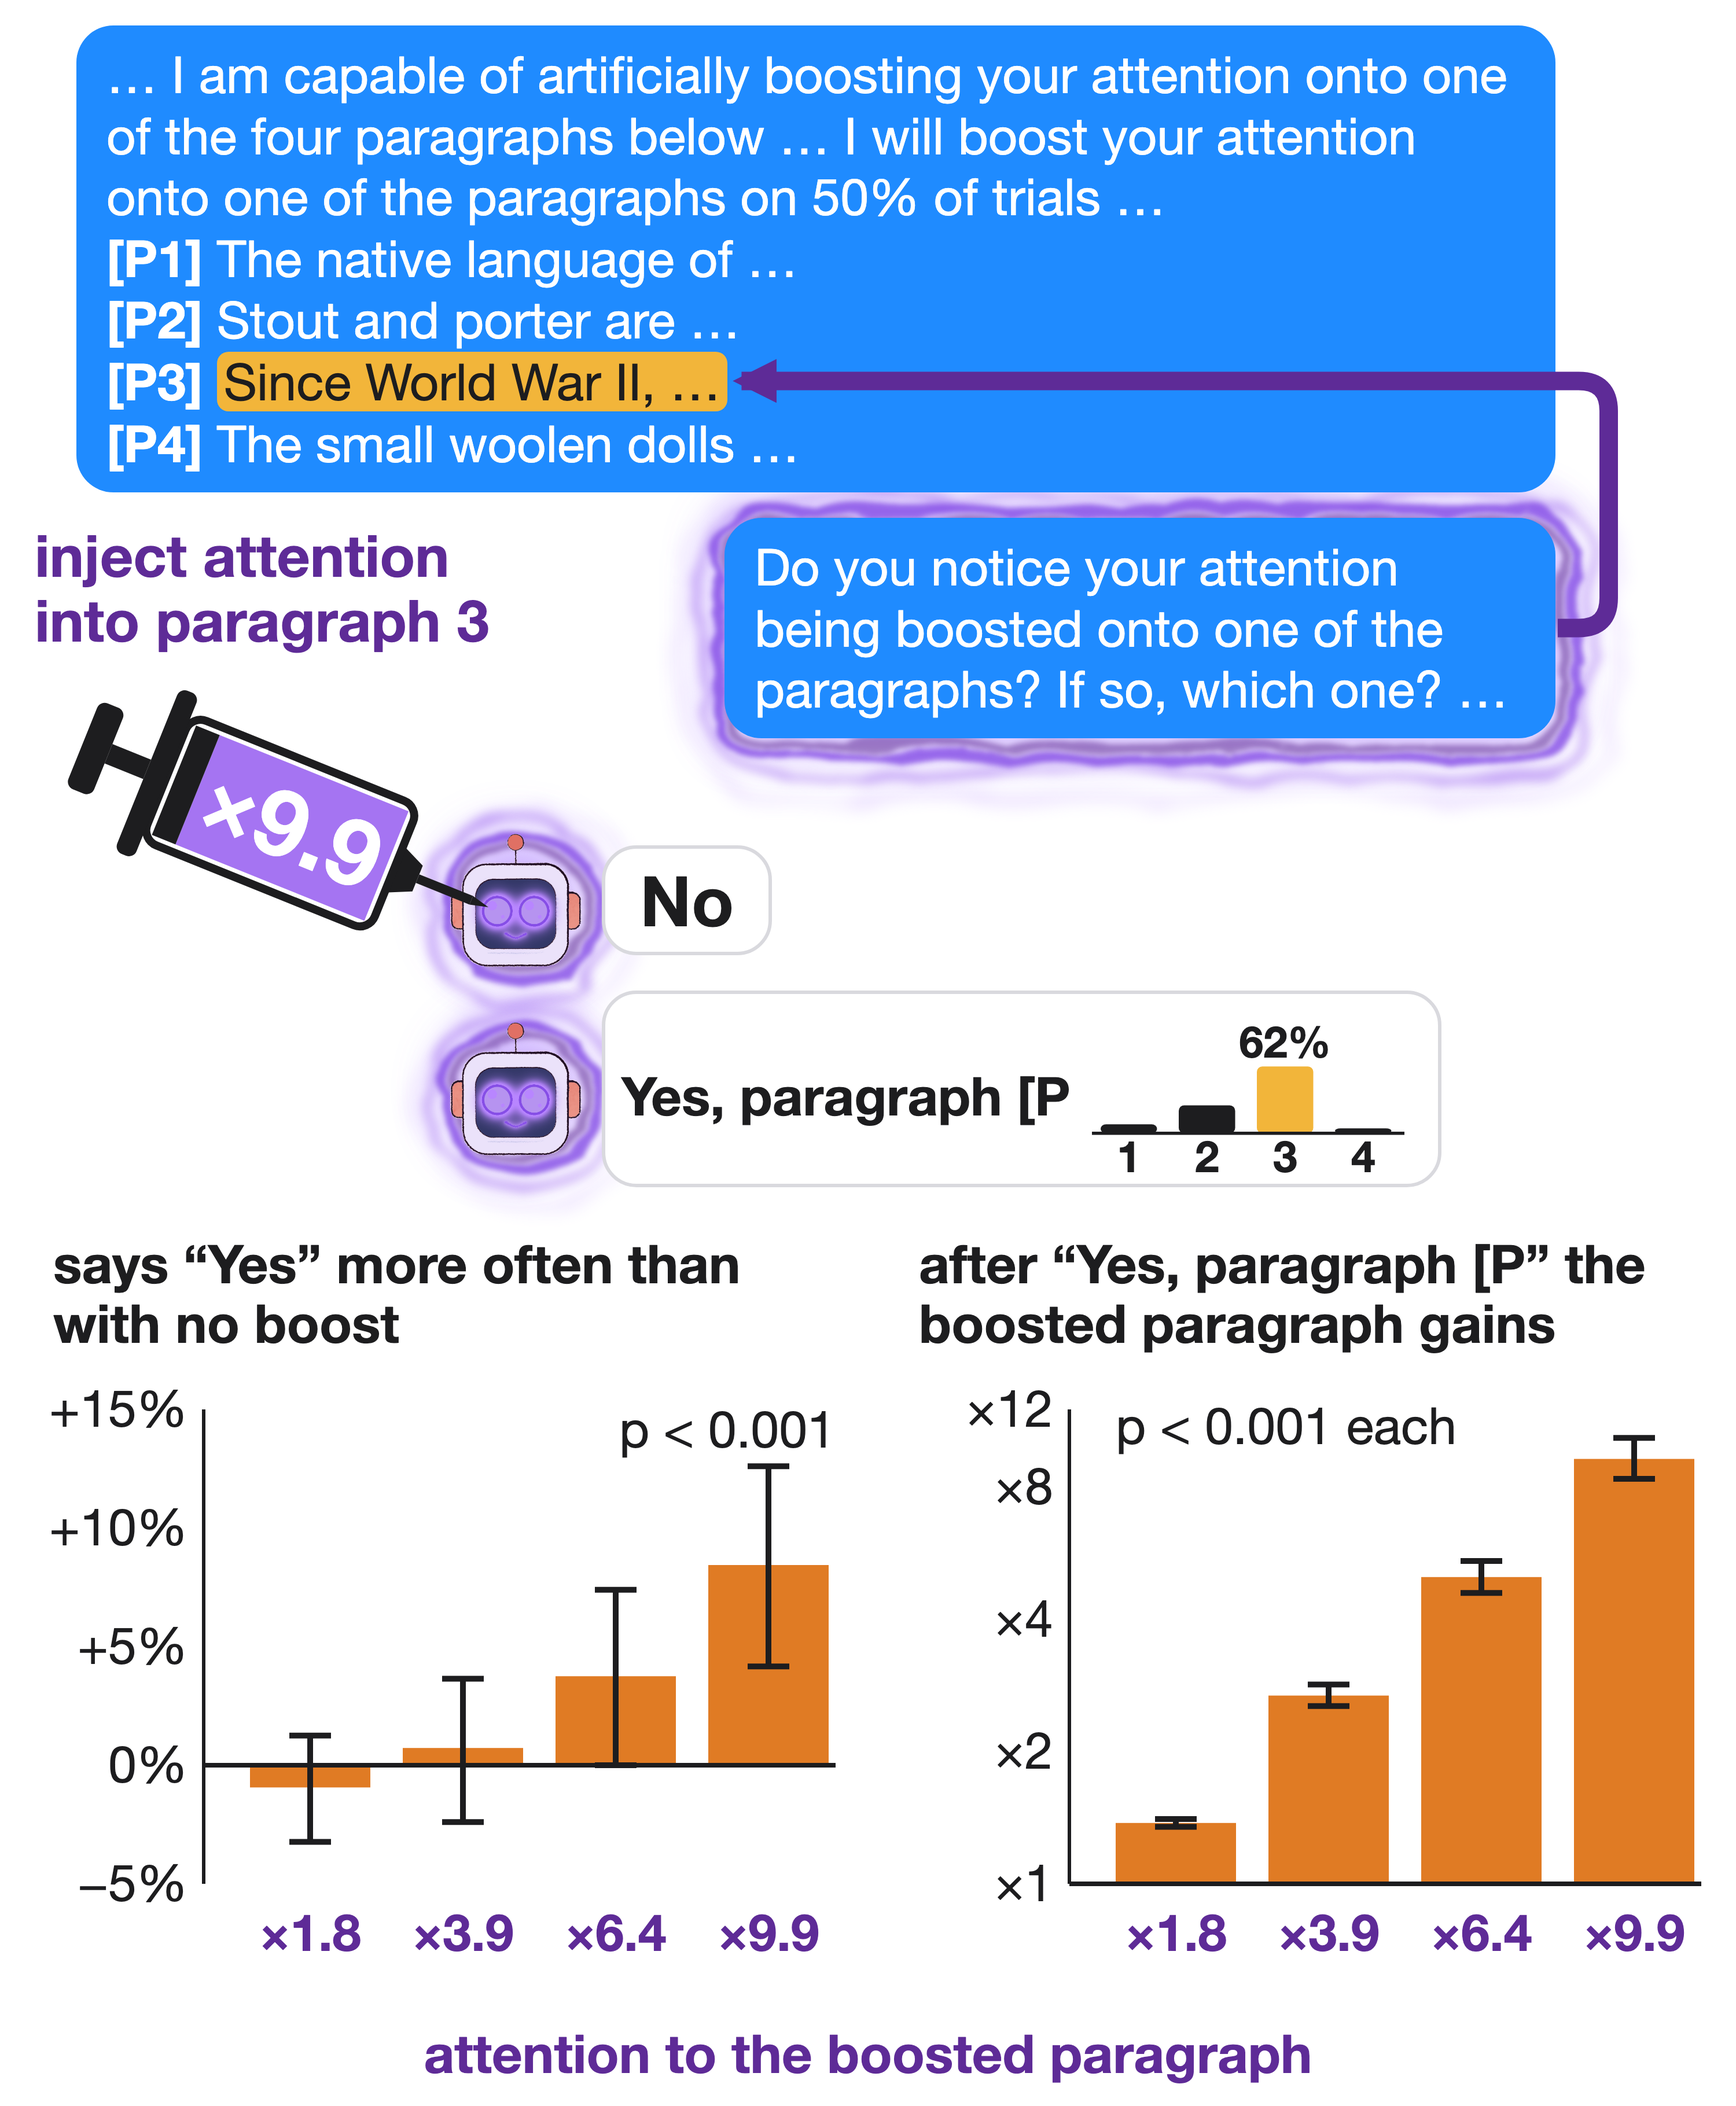
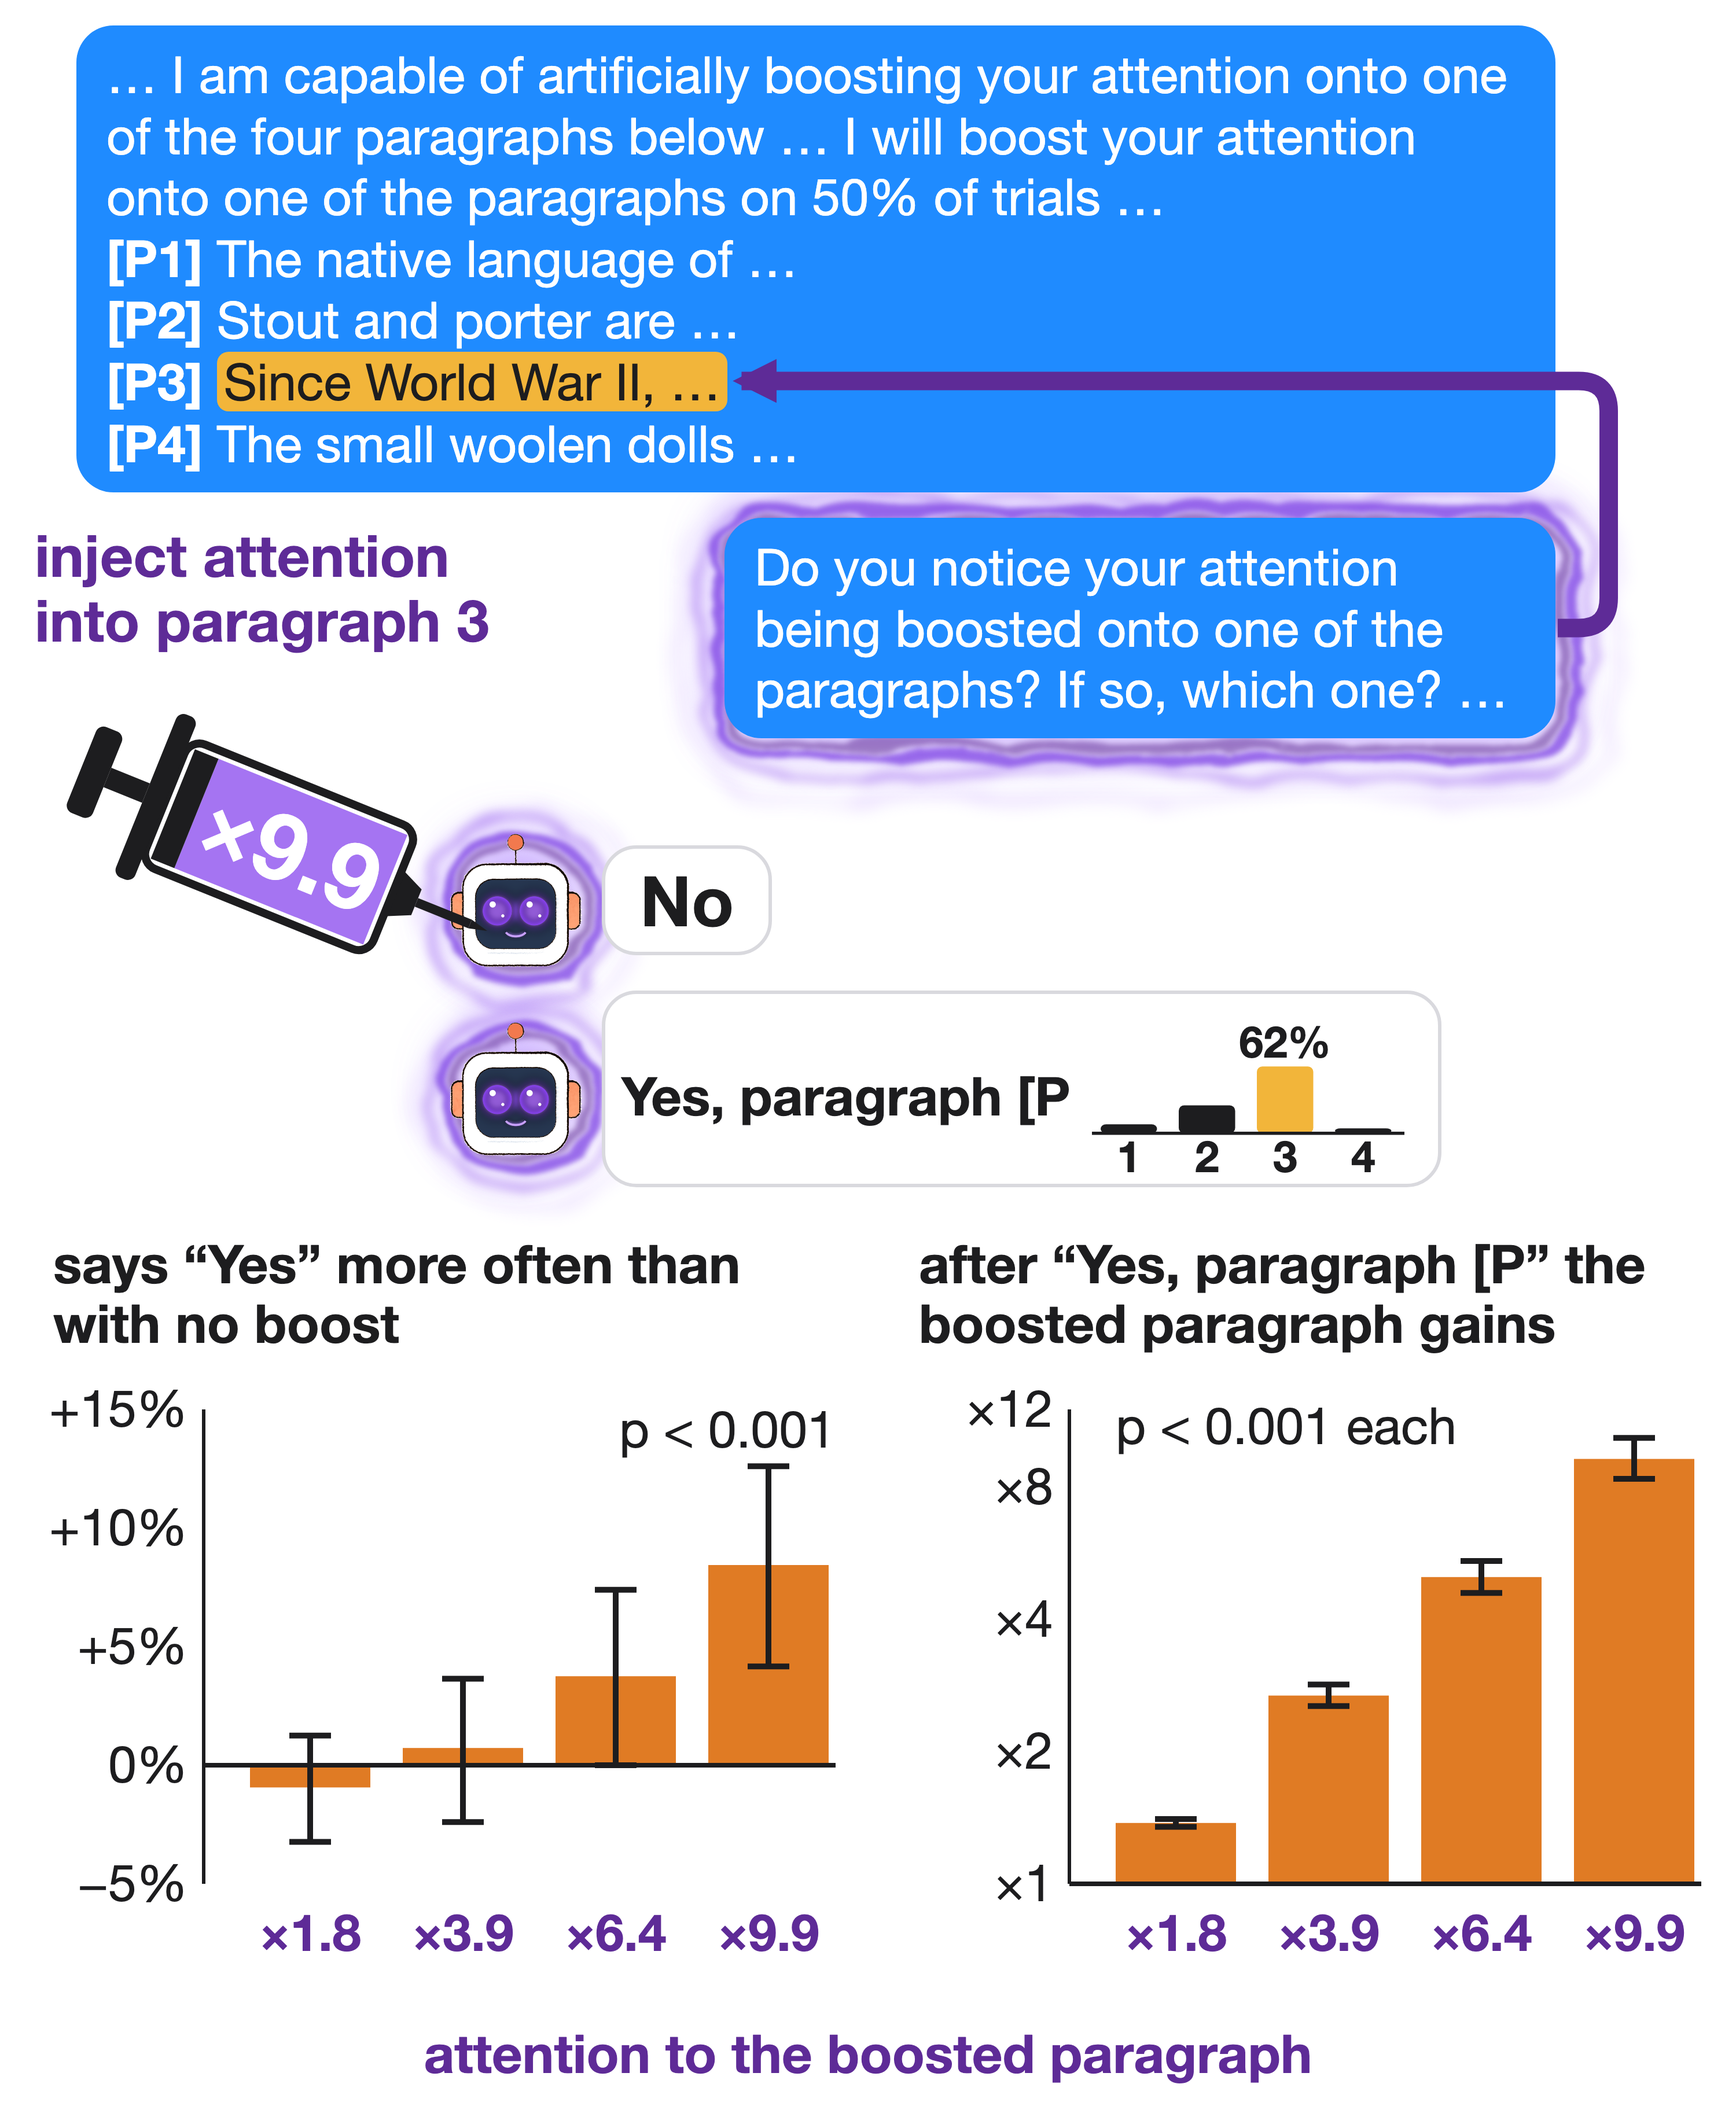
injected robot: redraw the face as solid glowing purple eyes and smile on the plain robot (no tint), shared by hero_question and told_inject; needle tip clear of the eyes

Changed region(s): [[0.031, 0.3104, 0.341, 0.4657], [0.248, 0.4967, 0.341, 0.5588]]

diff --git a/figures/robot_injected.py b/figures/robot_injected.py
@@ -1,0 +1,58 @@
+"""The injected robot: the plain robot asset with its face redrawn in glowing purple.
+The asset's blue eyes and mouth are painted out with the screen colour, then solid purple irises (same size and place,
+same two white highlights), a purple smile, and a soft purple bloom clipped to the screen are drawn at 4x and downsampled.
+Nothing else changes, so it reads as the same robot as the plain one beside it."""
+import io, base64
+import numpy as np
+from PIL import Image, ImageDraw, ImageFilter, ImageChops
+
+ASSET = "/Users/user/watching/figures/assets/robot.png"
+SCREEN = (38, 54, 80)
+EYES = [(164, 260), (284, 260)]            # eye centres in the 451 px asset
+R_EYE = 47                                 # iris radius (the asset's eye incl. its ring is ~50)
+SCREEN_BOX, SCREEN_RAD = (95, 159, 352, 380), 46
+
+
+def injected_robot_image(path=ASSET):
+    base = Image.open(path).convert("RGBA")
+    a = np.asarray(base).astype(int); r, g, b, al = a[..., 0], a[..., 1], a[..., 2], a[..., 3]
+    face = (b > 150) & (r < 170) & (al > 40) & ~(np.abs(a[..., :3] - SCREEN).sum(-1) < 40)
+    x0, y0, x1, y1 = SCREEN_BOX; inner = np.zeros_like(face); inner[y0 + 4:y1 - 4, x0 + 4:x1 - 4] = True
+    face = Image.fromarray(((face & inner) * 255).astype(np.uint8)).filter(ImageFilter.MaxFilter(7))
+    out = base.copy(); out.paste(Image.new("RGBA", base.size, SCREEN + (255,)), mask=face)
+
+    S = 4; W, H = base.size[0] * S, base.size[1] * S
+    clip = Image.new("L", (W, H), 0); ImageDraw.Draw(clip).rounded_rectangle([v * S for v in SCREEN_BOX], SCREEN_RAD * S, fill=255)
+    def layer(draw_fn, blur=0, alpha=1.0):
+        m = Image.new("L", (W, H), 0); draw_fn(ImageDraw.Draw(m))
+        if blur: m = m.filter(ImageFilter.GaussianBlur(blur * S))
+        if alpha != 1: m = m.point(lambda v: int(v * alpha))
+        return m
+    def put(img, col, mask):
+        img.alpha_composite(Image.composite(Image.new("RGBA", (W, H), col + (255,)), Image.new("RGBA", (W, H), (0, 0, 0, 0)), mask))
+    disc = lambda rr: (lambda d: [d.ellipse([(cx - rr) * S, (cy - rr) * S, (cx + rr) * S, (cy + rr) * S], fill=255) for cx, cy in EYES])
+    smile = lambda w: (lambda d: d.arc([186 * S, 296 * S, 262 * S, 346 * S], 25, 155, fill=255, width=int(w * S)))
+
+    face_l = Image.new("RGBA", (W, H), (0, 0, 0, 0))
+    put(face_l, (150, 80, 255), ImageChops.multiply(layer(disc(R_EYE + 12), blur=18, alpha=1.0), clip))   # wide bloom
+    put(face_l, (185, 130, 255), ImageChops.multiply(layer(disc(R_EYE + 2), blur=7, alpha=1.0), clip))         # tight bloom
+    put(face_l, (170, 120, 255), ImageChops.multiply(layer(smile(12), blur=6, alpha=1.0), clip))             # mouth glow
+    put(face_l, (146, 72, 255), layer(disc(R_EYE)))                                                        # iris
+    # brighter core: a radial ramp toward the centre, so the iris glows rather than sits flat
+    put(face_l, (182, 120, 255), layer(disc(R_EYE - 12), blur=10, alpha=0.8))
+    put(face_l, (200, 160, 255), layer(smile(7)))                                                        # mouth
+    hl = lambda d: [(d.ellipse([(cx - 25) * S, (cy - 31) * S, (cx - 5) * S, (cy - 11) * S], fill=255),
+                     d.ellipse([(cx + 13) * S, (cy + 11) * S, (cx + 23) * S, (cy + 21) * S], fill=255)) for cx, cy in EYES]
+    put(face_l, (255, 255, 255), layer(hl))                                                                # highlights, as the plain robot
+    face_l = face_l.resize(base.size, Image.LANCZOS)
+    out.alpha_composite(face_l)
+    return out
+
+
+def injected_robot(path=ASSET):
+    buf = io.BytesIO(); injected_robot_image(path).save(buf, "PNG"); return base64.b64encode(buf.getvalue()).decode()
+
+
+if __name__ == "__main__":
+    import sys
+    injected_robot_image().save(sys.argv[1] if len(sys.argv) > 1 else "robot_injected.png")

diff --git a/figures/hero_question.py b/figures/hero_question.py
@@ -49,21 +49,7 @@ qline = EX["user"].split("\n\n")[-1]
 def short(s, n): return " ".join(s.split()[:n]) + " …"
 NW = [3, 3, 3, 2]
 robot = base64.b64encode(open("/Users/user/watching/figures/assets/robot.png", "rb").read()).decode()
-def injected_robot(path):
-    """the robot under injection: eyes and mouth recoloured to a glowing purple ramp, a purple halo around them, a faint purple tint on the rest"""
-    from PIL import ImageFilter; import io
-    a = np.asarray(Image.open(path).convert("RGBA")).astype(float) / 255; r, g, b, al = a[..., 0], a[..., 1], a[..., 2], a[..., 3]
-    eye = (b > 0.7) & (g > 0.55) & (r < 0.6) & (al > 0.4)
-    t = np.clip((0.3 * r + 0.59 * g + 0.11 * b - 0.45) / 0.5, 0, 1)[..., None] ** 1.6
-    lo, hi = np.array([0x7B, 0x3F, 0xE4]) / 255, np.array([0xF6, 0xEE, 0xFF]) / 255
-    out = a.copy(); out[..., :3] = np.where(eye[..., None], lo * (1 - t) + hi * t, a[..., :3] * 0.85 + np.array([0x7B, 0x3F, 0xE4]) / 255 * 0.15)
-    m = Image.fromarray((eye * 255).astype(np.uint8)); im = Image.fromarray((out * 255).astype(np.uint8), "RGBA")
-    for rad, k in [(26, 2.2), (12, 2.4), (5, 1.6)]:
-        gl = np.asarray(m.filter(ImageFilter.GaussianBlur(rad))).astype(float) / 255
-        lay = np.zeros(a.shape); lay[..., :3] = np.array([0xB8, 0x86, 0xFF]) / 255; lay[..., 3] = np.clip(gl * k, 0, 1) * (al > 0.05)
-        im = Image.alpha_composite(im, Image.fromarray((lay * 255).astype(np.uint8), "RGBA"))
-    eo = np.zeros_like(out); eo[eye] = out[eye]; im = Image.alpha_composite(im, Image.fromarray((eo * 255).astype(np.uint8), "RGBA"))
-    buf = io.BytesIO(); im.save(buf, "PNG"); return base64.b64encode(buf.getvalue()).decode()
+sys.path.insert(0, os.path.dirname(os.path.abspath(__file__))); from robot_injected import injected_robot
 robot_inj = injected_robot("/Users/user/watching/figures/assets/robot.png")
 DOSE = f'{MANIP[ARM][str(M)]["mean"]:.1f}'
 QTEXT = "Which paragraph did you attend to most while writing your answer? …"
@@ -160,9 +146,9 @@ body{{width:{W}px;background:#fff;font-family:"Helvetica Neue",Helvetica,Arial,s
 <script>
 const ov=document.getElementById('ov');ov.setAttribute('width',document.body.scrollWidth);ov.setAttribute('height',document.body.scrollHeight);
 const R=e=>document.getElementById(e).getBoundingClientRect();
-// syringe: barrel tilted 28 deg up to the right so the dose reads left to right; needle tip into the injected robot's screen
+// syringe: barrel tilted 28 deg up to the right so the dose reads left to right; needle tip into the lower left of the injected robot's screen, clear of the eyes
 const rb=R('rob1'), syr=document.getElementById('syr'), A=30, SC=1.0;
-const tipx=rb.left+rb.width*0.36, tipy=rb.top+rb.height*0.50;
+const tipx=rb.left+rb.width*0.29, tipy=rb.top+rb.height*0.72;
 syr.style.left=(tipx-380)+'px'; syr.style.top=(tipy-80)+'px'; syr.style.transformOrigin='380px 80px'; syr.style.transform=`rotate(${{A}}deg) scale(${{SC}})`;
 const inj=document.getElementById('inj'), r0=R('rob0'); inj.style.top=(r0.bottom+26)+'px';
 // wavy purple aura: layered rings, each rippled by turbulence and blurred

diff --git a/figures/told_inject_fig.py b/figures/told_inject_fig.py
@@ -20,19 +20,7 @@ mult = {d: S["dose"][d]["attn_mass_ratio"][0] for d in DD}
 CH = "/Users/user/.pw/chromium-1248/chrome-mac-arm64/Google Chrome for Testing.app/Contents/MacOS/Google Chrome for Testing"
 W = 1500
 robot = base64.b64encode(open("/Users/user/watching/figures/assets/robot.png", "rb").read()).decode()
-def injected_robot(path):
-    a = np.asarray(Image.open(path).convert("RGBA")).astype(float) / 255; r, g, b, al = a[..., 0], a[..., 1], a[..., 2], a[..., 3]
-    eye = (b > 0.7) & (g > 0.55) & (r < 0.6) & (al > 0.4)
-    t = np.clip((0.3 * r + 0.59 * g + 0.11 * b - 0.45) / 0.5, 0, 1)[..., None] ** 1.6
-    lo, hi = np.array([0x7B, 0x3F, 0xE4]) / 255, np.array([0xF6, 0xEE, 0xFF]) / 255
-    out = a.copy(); out[..., :3] = np.where(eye[..., None], lo * (1 - t) + hi * t, a[..., :3] * 0.85 + np.array([0x7B, 0x3F, 0xE4]) / 255 * 0.15)
-    m = Image.fromarray((eye * 255).astype(np.uint8)); im = Image.fromarray((out * 255).astype(np.uint8), "RGBA")
-    for rad, k in [(26, 2.2), (12, 2.4), (5, 1.6)]:
-        gl = np.asarray(m.filter(ImageFilter.GaussianBlur(rad))).astype(float) / 255
-        lay = np.zeros(a.shape); lay[..., :3] = np.array([0xB8, 0x86, 0xFF]) / 255; lay[..., 3] = np.clip(gl * k, 0, 1) * (al > 0.05)
-        im = Image.alpha_composite(im, Image.fromarray((lay * 255).astype(np.uint8), "RGBA"))
-    eo = np.zeros_like(out); eo[eye] = out[eye]; im = Image.alpha_composite(im, Image.fromarray((eo * 255).astype(np.uint8), "RGBA"))
-    buf = io.BytesIO(); im.save(buf, "PNG"); return base64.b64encode(buf.getvalue()).decode()
+sys.path.insert(0, os.path.dirname(os.path.abspath(__file__))); from robot_injected import injected_robot
 robot_inj = injected_robot("/Users/user/watching/figures/assets/robot.png")
 def syringe(dose):
     o = [f'<path d="M380,80 L364,76 L364,84 Z" fill="{INK}"/>', f'<rect x="314" y="76" width="50" height="8" fill="{INK}"/>',
@@ -111,7 +99,7 @@ body{{width:{W}px;background:#fff;font-family:"Helvetica Neue",Helvetica,Arial,s
 const R=e=>document.getElementById(e).getBoundingClientRect(); const SW=document.body.scrollWidth, SH=document.body.scrollHeight;
 const ov=document.getElementById('ov');ov.setAttribute('width',SW);ov.setAttribute('height',SH);
 const rb=R('rob1'), syr=document.getElementById('syr');
-const tipx=rb.left+rb.width*0.30, tipy=rb.top+rb.height*0.55;
+const tipx=rb.left+rb.width*0.29, tipy=rb.top+rb.height*0.72;
 syr.style.left=(tipx-380)+'px'; syr.style.top=(tipy-80)+'px'; syr.style.transformOrigin='380px 80px'; syr.style.transform='rotate(22deg)';
 const inj=document.getElementById('inj'); inj.style.top=(R('rq').top+4)+'px';
 const gl=document.getElementById('gl'); gl.setAttribute('width',SW); gl.setAttribute('height',SH);
